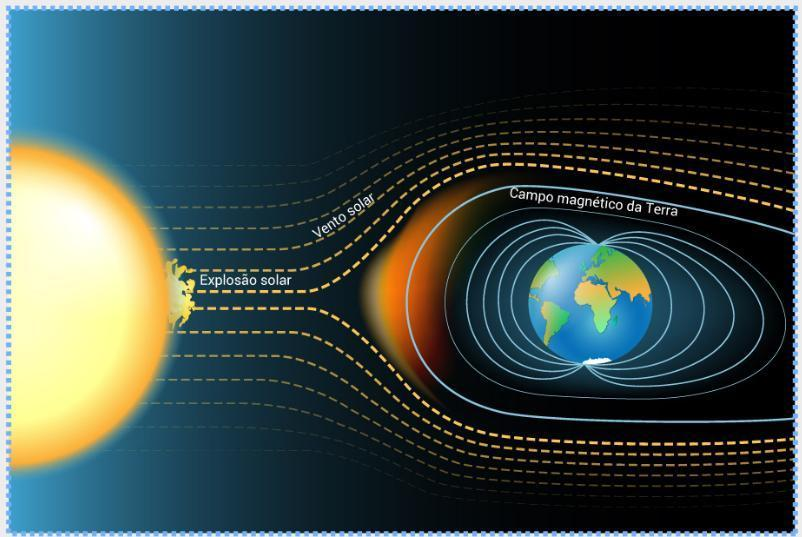
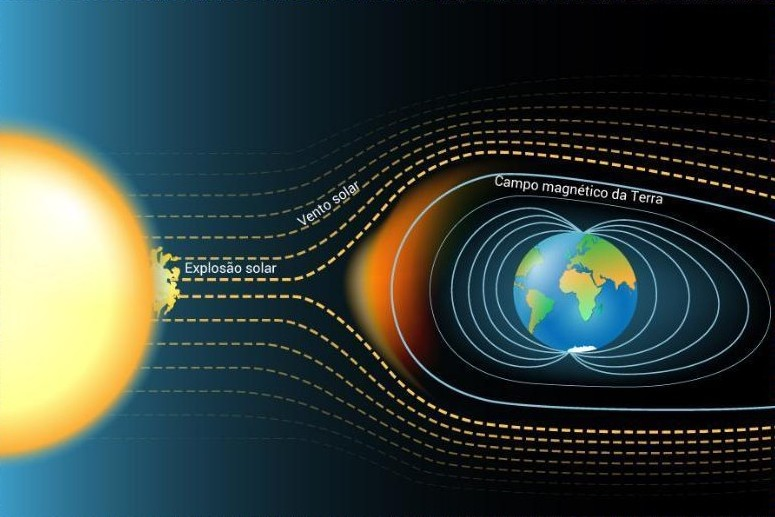
ajustes pequenos de css e edição de algumas imagens, ainda reta trocar as imagens restantes e adição da pagina principal e o footer

Changed region(s): [[0.0, 0.0, 1.0, 1.0]]

diff --git a/css/style.css b/css/style.css
@@ -6,20 +6,17 @@
 }
 
 :root {
-    --brand-color: #e88718;
-    --background-color: #5a3914;
-    --surface-color: #73430B;
+    --brand-color: #F2B47E;
+    --background-color: #401717;
+    --surface-color: #733224;
     --skeleton-color: #d9d9d9;
-    --shape-transparency: #ffffff70;
-    --text-color-primary: #C47214;
-    --text-color-secondary: #969393;
+    --footer-background: #4c4c4c;
+    --text-color-primary: #F2B47E;
+    --text-color-secondary: #D9814E;
 
     --font-family: "poppins", sans-serif;
     --text-lg: bold 24px/125% var(--font-family);
-    --text-lg: bold 24px/125% var(--font-family);
-    --text: 16px/150% var(--font-family);
     --text-md: 14px/170% var(--font-family);
-    --text-sm: 12px/170% var(--font-family);
 }
 
 body {
@@ -37,6 +34,12 @@ body {
 a {
     font: var(--text-lg);
     color: var(--text-color-primary);
+}
+
+p {
+    font-family: var(--font-family);
+    font: 18px/125% var(--font-family);
+    ;
 }
 
 a:hover {
@@ -61,11 +64,7 @@ nav {
     display: flex;
     justify-content: space-between;
     align-items: center;
-
-    line-height: 0;
     padding-block: 1.25rem;
-
-
 }
 
 nav ul {
@@ -84,41 +83,34 @@ nav ul {
 
 /* seçao problema  */
 
-.topico {
+.topico,
+.topico-inverso {
     display: flex;
     justify-content: space-between;
     align-items: center;
     padding-block: 2rem;
-    font: var(--text-md);
     padding-top: 2%;
     margin-top: 0.5%;
+    gap: 4rem;
+    width: 100%;
 }
 
-.topico img {
-    max-width: 20rem;
-}
-
-.topico-inverso img {
-    max-width: 19rem;
-    border: wheat solid 2px;
-}
-
+.texto-inverso,
 .texto {
-    display: block;
-    align-items: center;
-    justify-content: center;
-    padding-inline: 30rem;
-    margin-inline: auto;
-    min-width: 100%;
+    flex: 1;
+    max-width: 40rem;
+
 }
 
-.topico-inverso {
-    margin-right: 33%;
-    padding-block: 2rem;
-    font: var(--text-md);
-    padding: 2%;
-    margin-top: 0.5%;
-    display: flex;
-    justify-content: center;
+
+.topico img,
+.topico-inverso img {
+    border: var(--brand-color) solid 3px;
+    border-radius: 18px;
+    width: 100%;
+    max-width: 24rem;
+    /* Ajuste o tamanho máximo da imagem aqui se preferir */
+    height: auto;
+    object-fit: cover;
 
 }

diff --git a/index.html b/index.html
@@ -71,7 +71,7 @@
 
 
 
-                    <div class="texto">
+                    <div class="texto-inverso">
                         <h2 id="tecnologia">Tecnologia</h2>
                         <p> Um único microssatélite que orbita o Sol na mesma velocidade da Terra, coleta dados de calor e
                             ondas eletromagnéticas.</p>
@@ -105,7 +105,7 @@
 
 
 
-                    <div class="texto">
+                    <div class="texto-inverso">
                         <h2 id="publico">Publico</h2>
                         <p> Empresas de energia, operadoras de telecomunicação, agências espaciais e órgãos de defesa
                             civil compõem o público-alvo global.</p>
@@ -139,7 +139,7 @@
 
 
 
-                    <div class="texto">
+                    <div class="texto-inverso">
 
                         <h2 id="aplicacao">Aplicação</h2>
                         <p> Monitoramento orbital para proteger redes elétricas e telecomunicações contra tempestades
@@ -154,6 +154,10 @@
             </div>
 
         </main>
+
+        <footer class="footer">
+
+        </footer>
     </div>
 </body>
 